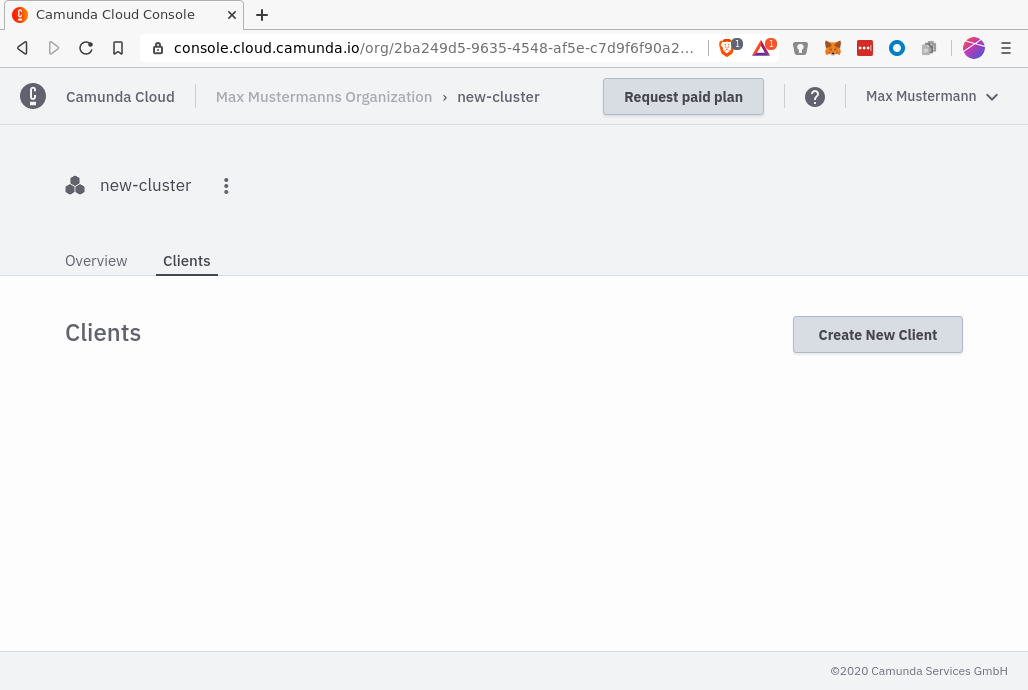
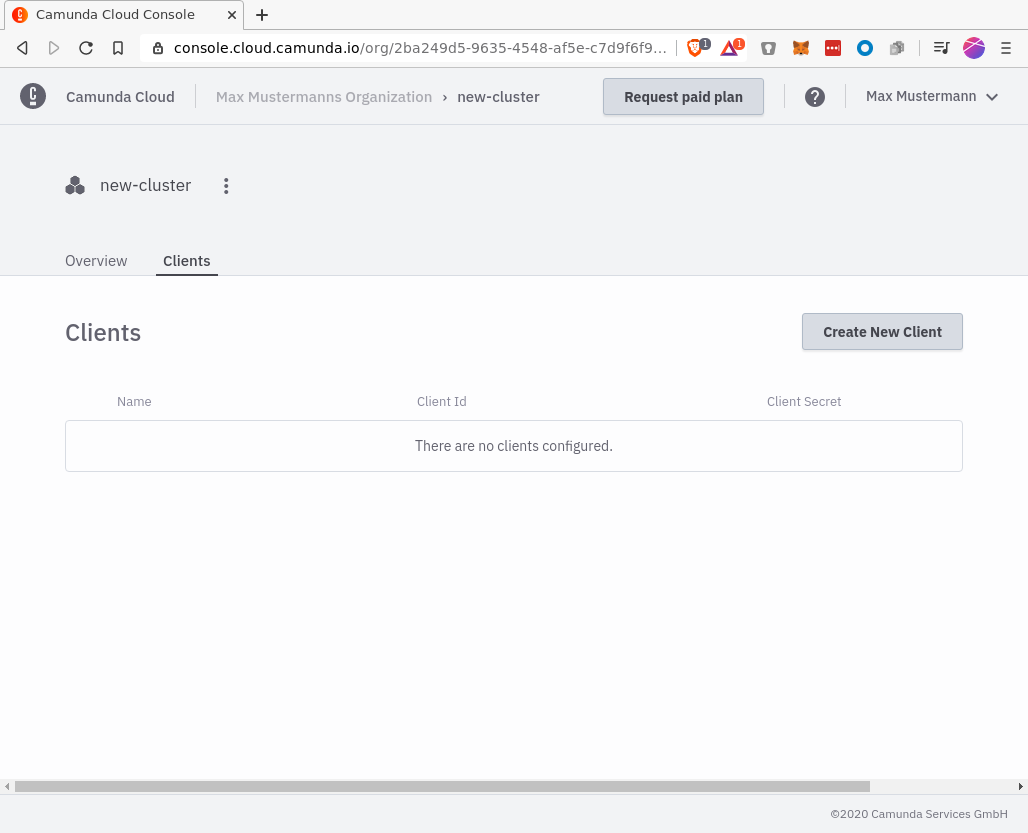
new client-view (#38)

diff --git a/docs/gettingstarted_quick-start.md b/docs/gettingstarted_quick-start.md
@@ -63,11 +63,13 @@ Click on _Create New Client_-Button to create a new client, name your client acc
 
 ![create-client](./assets/cluster-details-create-client.png)
 
-In the next step you'll see all information you need to connect:
+The newly created client appears in the list, click on `Connection Information` to get all the information you need to connect:
 
 - `ZEEBE_ADDRESS`: Address where your cluster can be reached.
 - `ZEEBE_CLIENT_ID` and `ZEEBE_CLIENT_SECRET`: Credentials to request a new access token.
 - `ZEEBE_AUTHORIZATION_SERVER_URL`: A new token can be requested at this address, using the credentials.
+
+You can use the `Copy` button to get all of this into your clipboard so you can paste it into your terminal later.
 
 ![client-details](assets/cluster-details-client-details.png)
 
